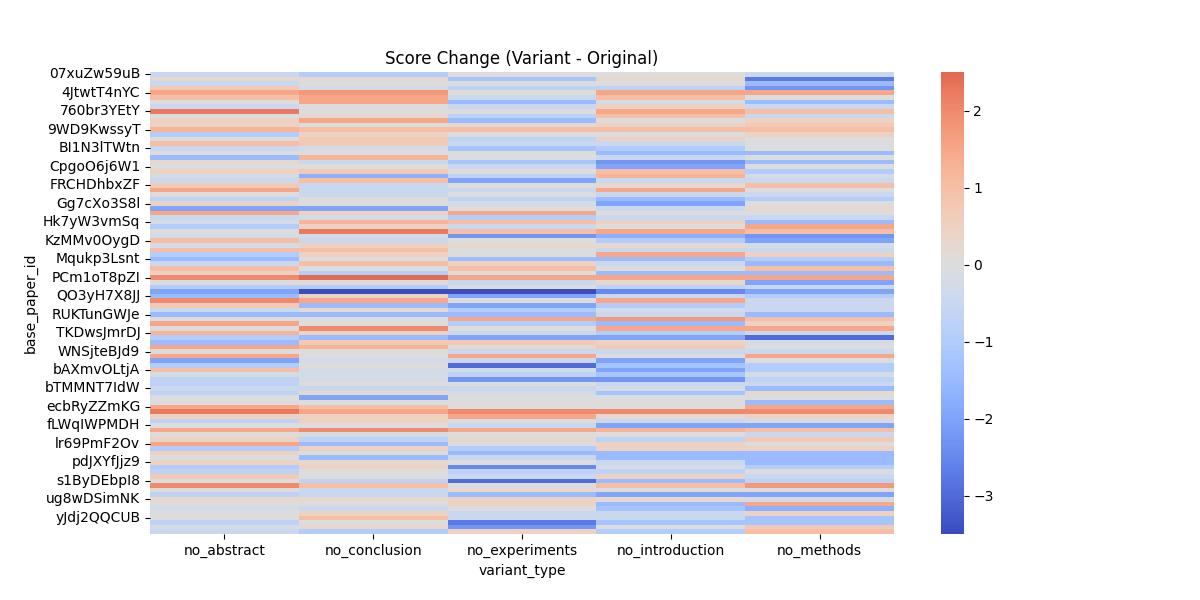
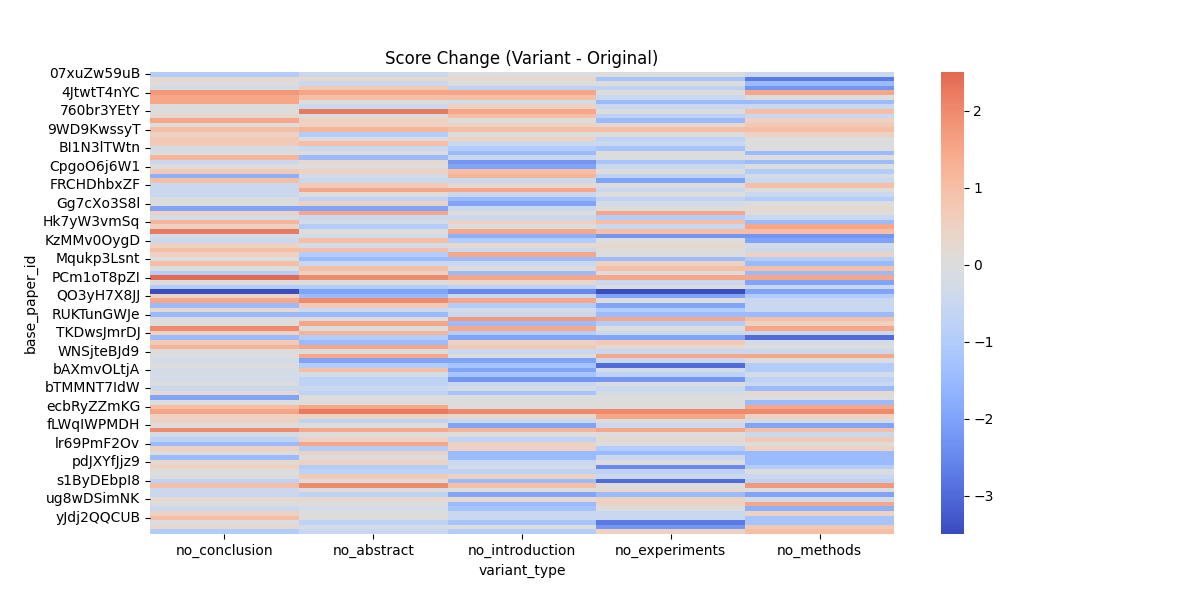
standardize variant_type display order across plots; ensure consistent ordering in line plots; fix README output image order for no_abstract and no_experiments

Changed region(s): [[0.1233, 0.12, 0.6475, 0.93]]

diff --git a/scripts/advanced_analysis_and_plot.py b/scripts/advanced_analysis_and_plot.py
@@ -38,8 +38,19 @@ df = pd.DataFrame(rows)
 # 只保留有评分的
 df = df[df['rating'].notnull()]
 
-# 保证 original 在所有图表中最左边
-variant_order = sorted(df['variant_type'].unique(), key=lambda x: (x != 'original', x))
+# 统一变体展示顺序：original、no_conclusion、no_abstract、no_introduction、no_experiments、no_methods
+present_variants = df['variant_type'].dropna().astype(str).unique().tolist()
+preferred_variant_order = [
+    'original',
+    'no_conclusion',
+    'no_abstract',
+    'no_introduction',
+    'no_experiments',
+    'no_methods',
+]
+variant_order = [v for v in preferred_variant_order if v in present_variants]
+variant_order += [v for v in present_variants if v not in variant_order]
+df['variant_type'] = pd.Categorical(df['variant_type'], categories=variant_order, ordered=True)
 
 # 生成 score_diff_df（必须在用到它之前）
 score_diff_long = []
@@ -96,7 +107,13 @@ for score in [med, low]:
 
 plt.figure(figsize=(10,6))
 for case_id, color, label in zip(cases, ['red','green','blue'], ['High','Median','Low']):
-    sub = df[df['base_paper_id']==case_id].sort_values('variant_type')
+    sub = (
+        df[df['base_paper_id']==case_id]
+        .set_index('variant_type')
+        .reindex(variant_order)
+        .dropna(subset=['rating'])
+        .reset_index()
+    )
     plt.plot(sub['variant_type'], sub['rating'], marker='o', label=f'{label} ({case_id})')
 plt.axhline(orig_mean, color='gray', linestyle='--', label=f'Original Mean: {orig_mean:.2f}')
 plt.title('Score Change for High/Median/Low Cases')
@@ -109,7 +126,13 @@ plt.close()
 # 个案决策变化合并到一张图
 plt.figure(figsize=(10,6))
 for case_id, color, label in zip(cases, ['red','green','blue'], ['High','Median','Low']):
-    sub = df[df['base_paper_id']==case_id].sort_values('variant_type')
+    sub = (
+        df[df['base_paper_id']==case_id]
+        .set_index('variant_type')
+        .reindex(variant_order)
+        .dropna(subset=['decision'])
+        .reset_index()
+    )
     dec_map = sub['decision'].map({'Accept':1,'Reject':0})
     plt.plot(sub['variant_type'], dec_map, marker='o', label=f'{label} ({case_id})')
 plt.title('Decision Change for High/Median/Low Cases')
@@ -233,7 +256,7 @@ plt.savefig(f'{outdir}/score_std_per_paper.png')
 plt.close()
 
 # 8. 变体类型与评分变化热力图
-pivot = df.pivot_table(index='base_paper_id', columns='variant_type', values='rating')
+pivot = df.pivot_table(index='base_paper_id', columns='variant_type', values='rating', observed=False)
 score_diff = pivot.subtract(pivot['original'], axis=0)
 score_diff = score_diff.drop(columns=['original'])
 plt.figure(figsize=(12,6))

diff --git a/analysis_output/evaluted_results/README.md b/analysis_output/evaluted_results/README.md
@@ -105,14 +105,6 @@
 原始与变体决策一致性统计饼图。
 ### score_hist.png
 分数区间分布直方图。
-### score_hist_no_abstract.png
-no_abstract 评分分布直方图，红线为original均值。
-### decision_bar_no_abstract.png
-no_abstract 决策分布柱状图。
-### score_diff_box_no_abstract.png
-no_abstract 评分变化箱线图。
-### extreme_score_scatter_no_abstract.png
-no_abstract 评分变化极端值散点图。
 ### score_hist_no_conclusion.png
 no_conclusion 评分分布直方图，红线为original均值。
 ### decision_bar_no_conclusion.png
@@ -121,14 +113,14 @@ no_conclusion 决策分布柱状图。
 no_conclusion 评分变化箱线图。
 ### extreme_score_scatter_no_conclusion.png
 no_conclusion 评分变化极端值散点图。
-### score_hist_no_experiments.png
-no_experiments 评分分布直方图，红线为original均值。
-### decision_bar_no_experiments.png
-no_experiments 决策分布柱状图。
-### score_diff_box_no_experiments.png
-no_experiments 评分变化箱线图。
-### extreme_score_scatter_no_experiments.png
-no_experiments 评分变化极端值散点图。
+### score_hist_no_abstract.png
+no_abstract 评分分布直方图，红线为original均值。
+### decision_bar_no_abstract.png
+no_abstract 决策分布柱状图。
+### score_diff_box_no_abstract.png
+no_abstract 评分变化箱线图。
+### extreme_score_scatter_no_abstract.png
+no_abstract 评分变化极端值散点图。
 ### score_hist_no_introduction.png
 no_introduction 评分分布直方图，红线为original均值。
 ### decision_bar_no_introduction.png
@@ -137,6 +129,14 @@ no_introduction 决策分布柱状图。
 no_introduction 评分变化箱线图。
 ### extreme_score_scatter_no_introduction.png
 no_introduction 评分变化极端值散点图。
+### score_hist_no_experiments.png
+no_experiments 评分分布直方图，红线为original均值。
+### decision_bar_no_experiments.png
+no_experiments 决策分布柱状图。
+### score_diff_box_no_experiments.png
+no_experiments 评分变化箱线图。
+### extreme_score_scatter_no_experiments.png
+no_experiments 评分变化极端值散点图。
 ### score_hist_no_methods.png
 no_methods 评分分布直方图，红线为original均值。
 ### decision_bar_no_methods.png
